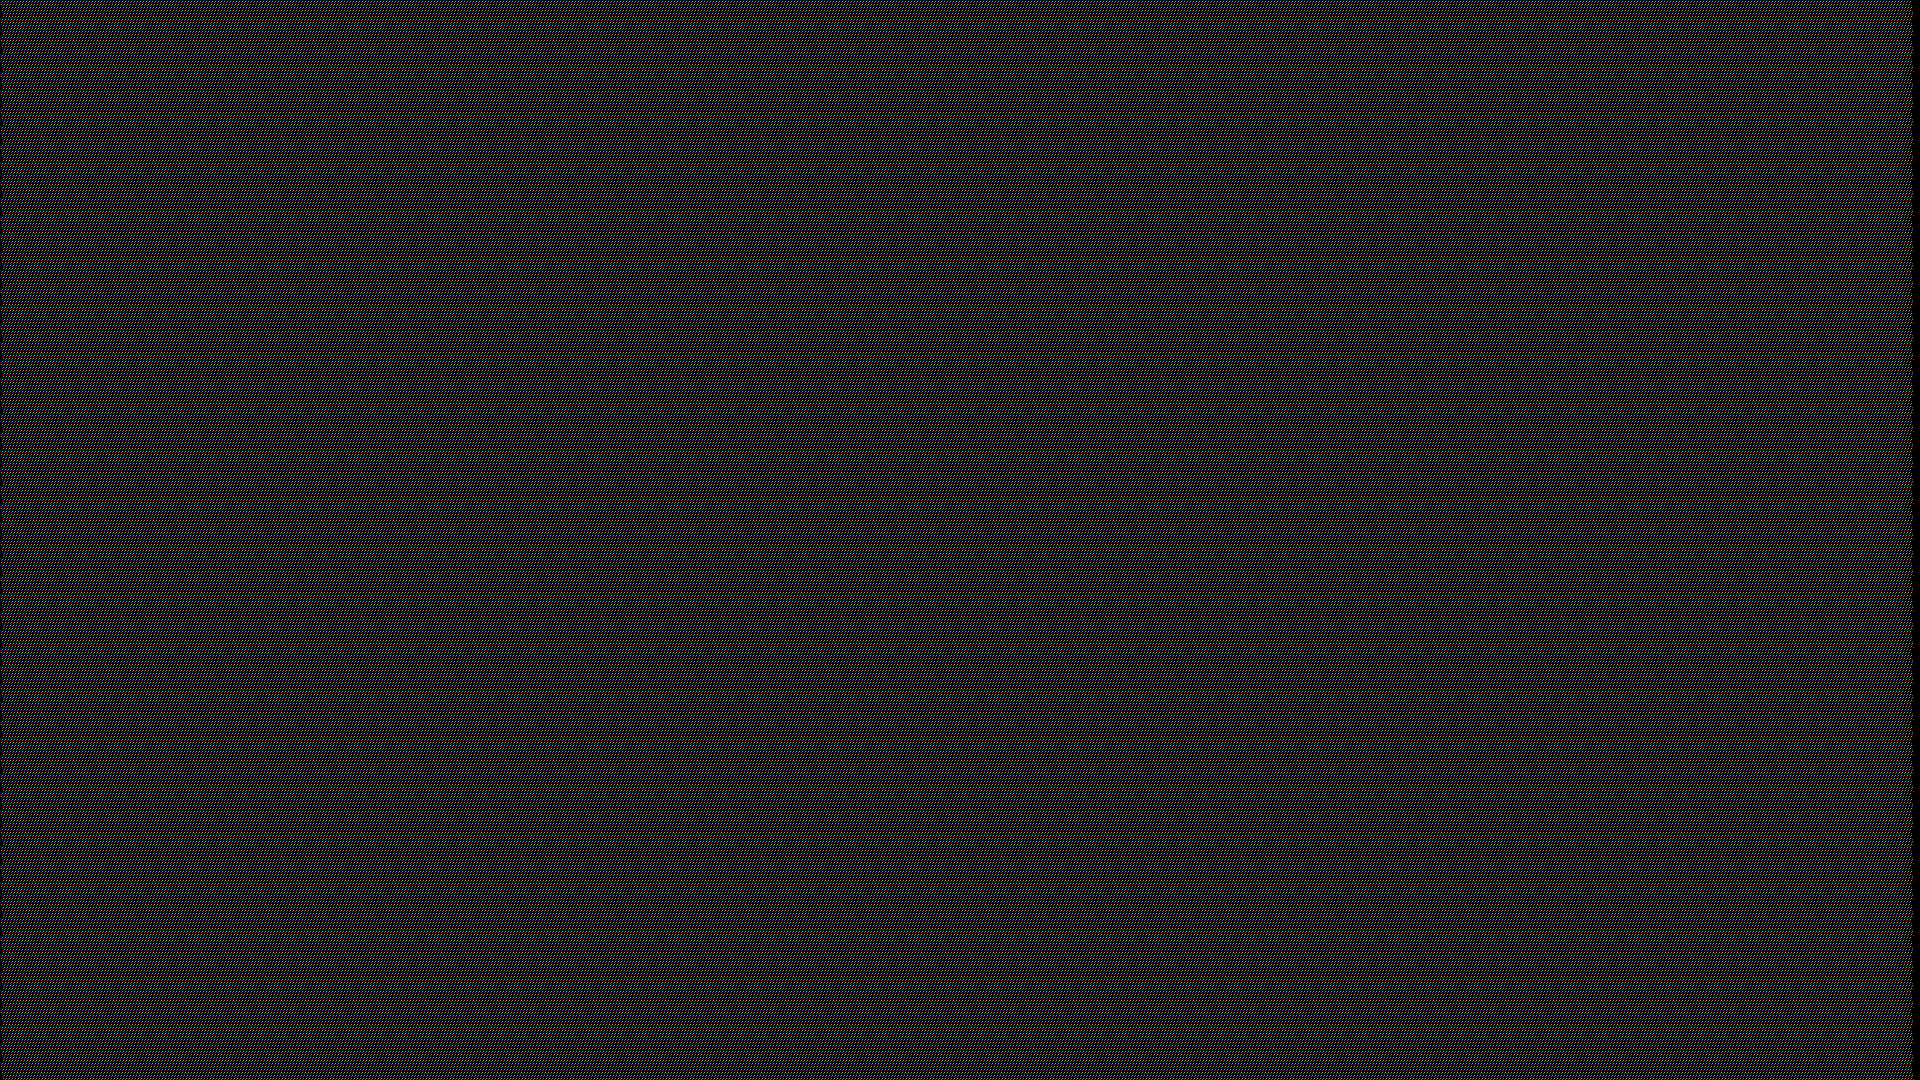
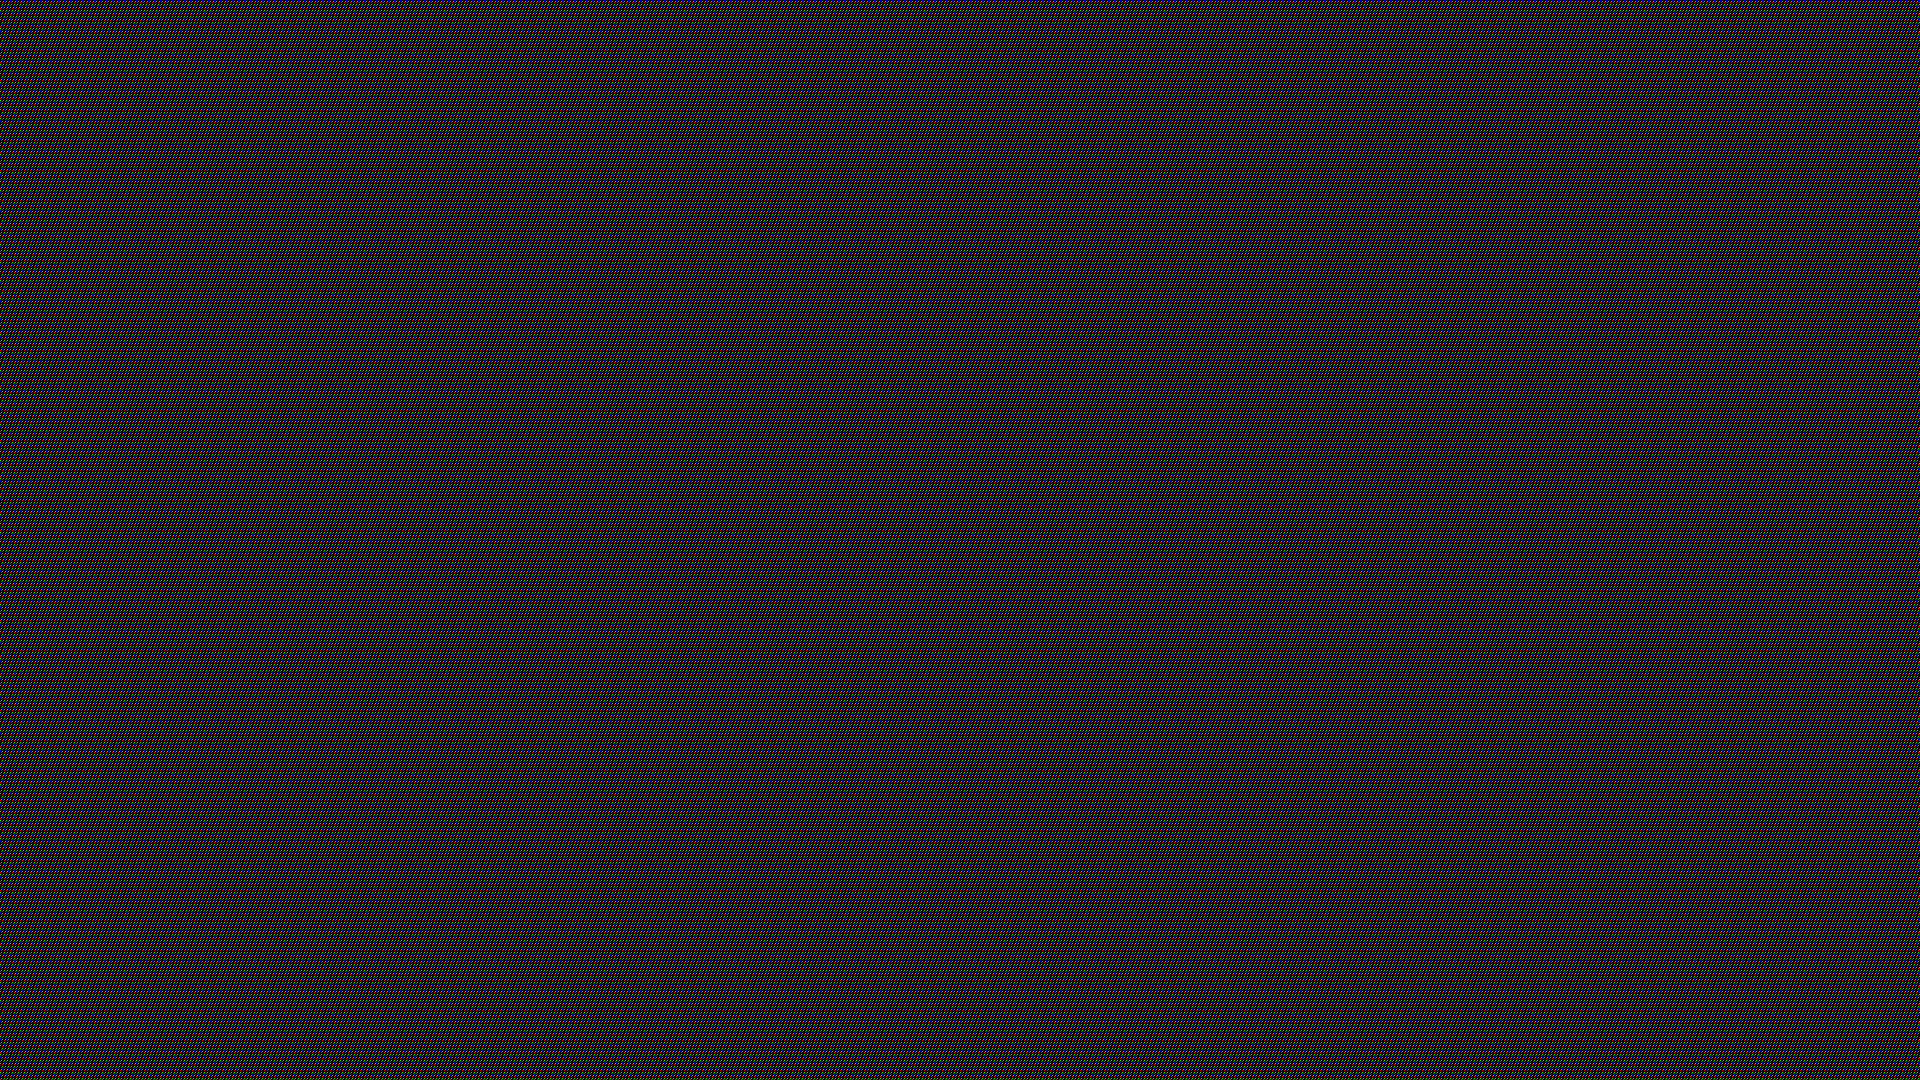
accurate view drawing

diff --git a/ww_lib.cpp b/ww_lib.cpp
@@ -1,6 +1,8 @@
 #include <opencv2/opencv.hpp>
 #include "ww_lib.h"
 
+#include <iostream>
+
 namespace watching_window
 {
    /* * sets the specified subpixel to the intensity specified */
@@ -61,37 +63,79 @@ return;//         std::cout << "x oob" << std::endl;
 
    /* CYCLE THROUGH THE VIEWS */
    /* start_x corresponds to the view index */
-   void draw_view(cv::Mat image, int start_x, const int HEIGHT, const int WIDTH){
-      const int SP_WIDTH = WIDTH * 3; 
-      int offset = 0;
+   static const int mask[9][9] = {
+      {1, 3, 5, 7, 0, 2, 4, 6, 8}, 
+      {0, 2, 4, 6, 8, 1, 3, 5, 7},
+      {8, 1, 3, 5, 7, 0, 2, 4, 6},
+      {7, 0, 2, 4, 6, 8, 1, 3, 5},
+      {6, 8, 1, 3, 5, 7, 0, 2, 4},
+      {5, 7, 0, 2, 4, 6, 8, 1, 3},
+      {4, 6, 8, 1, 3, 5, 7, 0, 2},
+      {3, 5, 7, 0, 2, 4, 6, 8, 1},
+      {2, 4, 6, 8, 1, 3, 5, 7, 0},
+   };
 
-      int w_count, h_count;
-      w_count = h_count = 0;
+   /* 
+    * expects in_images to be 640 x 360
+    * expcects out_image to be 1920 x 1080
+    */
+   void draw_views(cv::Mat in_images[], cv::Mat out_image) {
+      for (int x = 0; x < 640; x++){ // in_image width (mask is 1 wide) 
+         for (int y = 0; y < 360; y+=3){ // in_image height (mask is 3 high)
+            /* draw 27 pixels, the 81 sub pixels */
+            /* draw the sub pixel max */
+            /* using the colours in_images[?].colAt(x, y + i) for i in (0, 1, 2) */
 
-      for (int x = start_x % 9; x + offset  < SP_WIDTH; x += 9){
-         offset = 0;
-         w_count++;
-         h_count = 0;
-         for (int y = 0; y < HEIGHT; y+=2){
-            h_count++;
-            set_sub_pixel(image, x + offset, y, 255);
-            offset = (offset + 1) % 9;
-         } 
-      }
-      std::cout << w_count << " " << h_count << std::endl;
-
-      w_count = 0;
-      for (int x = (start_x + 5) % 9; x + offset < SP_WIDTH; x += 9){
-         offset = 0;
-         w_count++;
-         h_count = 0;
-         for (int y = 1; y < HEIGHT; y+=2){
-            h_count++;
-            set_sub_pixel(image, x + offset, y, 255);
-            offset = (offset + 1) % 9;
-         } 
+            for (int xx = 0; xx < 9; xx++){
+               for (int yy = 0; yy < 9; yy++){
+                  if (mask[yy][xx] == 0)
+                  set_sub_pixel(out_image, x * 9 + xx, y * 3 + yy, 255);      
+               }
+            }
+         }
       }   
-   std::cout << w_count << " " << h_count << std::endl;
+   }
+   void draw_view(cv::Mat image, int view, const int HEIGHT, const int WIDTH){
+      for (int x = 0; x < WIDTH / 3; x++){ // in_image width (mask is 1 wide) 
+         for (int y = 0; y < HEIGHT / 3; y+=3){ // in_image height (mask is 3 high)
+            for (int xx = 0; xx < 9; xx++){
+               for (int yy = 0; yy < 9; yy++){
+                  if (mask[yy][xx] == view)
+                  set_sub_pixel(image, x * 9 + xx, y * 3 + yy, 255);      
+               }
+            }
+         }
+      }   
+//      const int SP_WIDTH = WIDTH * 3; 
+//      int offset = 0;
+//
+//      int w_count, h_count;
+//      w_count = h_count = 0;
+//
+//      for (int x = start_x % 9; x + offset  < SP_WIDTH; x += 9){
+//         offset = 0;
+//         w_count++;
+//         h_count = 0;
+//         for (int y = 0; y < HEIGHT; y+=2){
+//            h_count++;
+//            set_sub_pixel(image, x + offset, y, 255);
+//            offset = (offset + 1) % 9;
+//         } 
+//      }
+//      //std::cout << w_count << " " << h_count << std::endl;
+//
+//      w_count = 0;
+//      for (int x = (start_x + 5) % 9; x + offset < SP_WIDTH; x += 9){
+//         offset = 0;
+//         w_count++;
+//         h_count = 0;
+//         for (int y = 1; y < HEIGHT; y+=2){
+//            h_count++;
+//            set_sub_pixel(image, x + offset, y, 255);
+//            offset = (offset + 1) % 9;
+//         } 
+//      }   
+//   //std::cout << w_count << " " << h_count << std::endl;
    }
 
    /* edge artifacting */

diff --git a/ww_main.cpp b/ww_main.cpp
@@ -19,7 +19,10 @@ int main (int arg, char *argv[]) {
 //  edge_artifacting2(image, HEIGHT, WIDTH);
 //  draw_basic_lines(image, HEIGHT, WIDTH);
 //  draw_slants(image, WIDTH, HEIGHT, 29);
+   
+   cv::Mat in_images[0] = {};
 
+   draw_views(in_images, image);
 
    for (int i = 0; i < 9; i++){
       std::stringstream strs;
@@ -28,7 +31,7 @@ int main (int arg, char *argv[]) {
       const char* pchar = (char*) temp_str.c_str();
 
       image.setTo(C_BLACK);
-      draw_view(image, i, HEIGHT, WIDTH-9);
+      draw_view(image, i, HEIGHT, WIDTH);
       
       cv::imwrite( pchar , image);
       cv::namedWindow("Display");

diff --git a/ww_lib.h b/ww_lib.h
@@ -31,6 +31,7 @@ namespace watching_window
 
    /* draws a view needs alot of work lol */
    void draw_view(cv::Mat image, int view, const int HEIGHT, const int WIDTH);
+   void draw_views(cv::Mat[], cv::Mat);
 
    /* demonstrates the edge artifacting */
    void edge_artifacting(cv::Mat image, const int HEIGHT, const int WIDTH);
